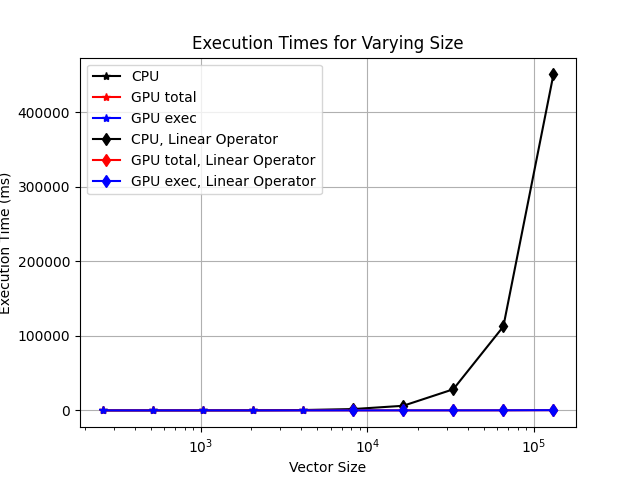
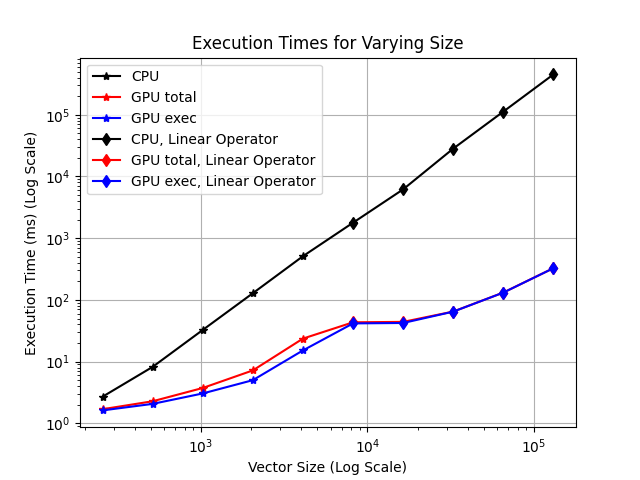
Altering graphs for CG GPU

diff --git a/GPU/SAXPY/CG/graph.py b/GPU/SAXPY/CG/graph.py
@@ -35,10 +35,11 @@ ax1.plot(size[5:],CPU[5:],'k',marker='d', label='CPU, Linear Operator')
 ax1.plot(size[5:],GPU_Mem[5:],'r',marker='d', label='GPU total, Linear Operator')
 ax1.plot(size[5:],GPU_wo_Mem[5:],'b',marker='d', label='GPU exec, Linear Operator')
 ax1.set_xscale("log")
+ax1.set_yscale("log")
 ax1.grid()
 ax1.legend()
-ax1.set_xlabel('Vector Size')
-ax1.set_ylabel('Execution Time (ms)')
+ax1.set_xlabel('Vector Size (Log Scale)')
+ax1.set_ylabel('Execution Time (ms) (Log Scale)')
 ax1.set_title('Execution Times for Varying Size')
 plt.savefig('fig_1.png')
 plt.show()
@@ -49,10 +50,11 @@ ax3.plot(size[:6],SU_wo_Mem[:6],'r',marker='*', label='GPU exec')
 ax3.plot(size[5:],SU_Mem[5:],'k', marker='d',label='GPU total, Linear Operator')
 ax3.plot(size[5:],SU_wo_Mem[5:],'r',marker='d', label='GPU exec, Linear Operator')
 ax3.set_xscale("log")
+ax3.set_yscale("log")
 ax3.grid()
 ax3.legend()
-ax3.set_xlabel('Vector Size')
-ax3.set_ylabel('SpeedUp')
+ax3.set_xlabel('Vector Size (Log Scale)')
+ax3.set_ylabel('SpeedUp (Log Scale)')
 ax3.set_title('SpeedUp for Varying Size')
 plt.savefig('fig_2.png')
 plt.show()

diff --git a/GPU/SAXPY/CG/README.md b/GPU/SAXPY/CG/README.md
@@ -16,6 +16,3 @@
 
 
 
-![fig_1](https://user-images.githubusercontent.com/84815326/231135676-be0b4123-fce8-40f6-9e9a-c273c850c946.png)
-![fig_2](https://user-images.githubusercontent.com/84815326/231135677-21d254d0-a45b-4074-a902-834881ab1f42.png)
-![fig_3](https://user-images.githubusercontent.com/84815326/231135679-52804f7e-d4c2-47b5-97e2-2703207f267f.png)
